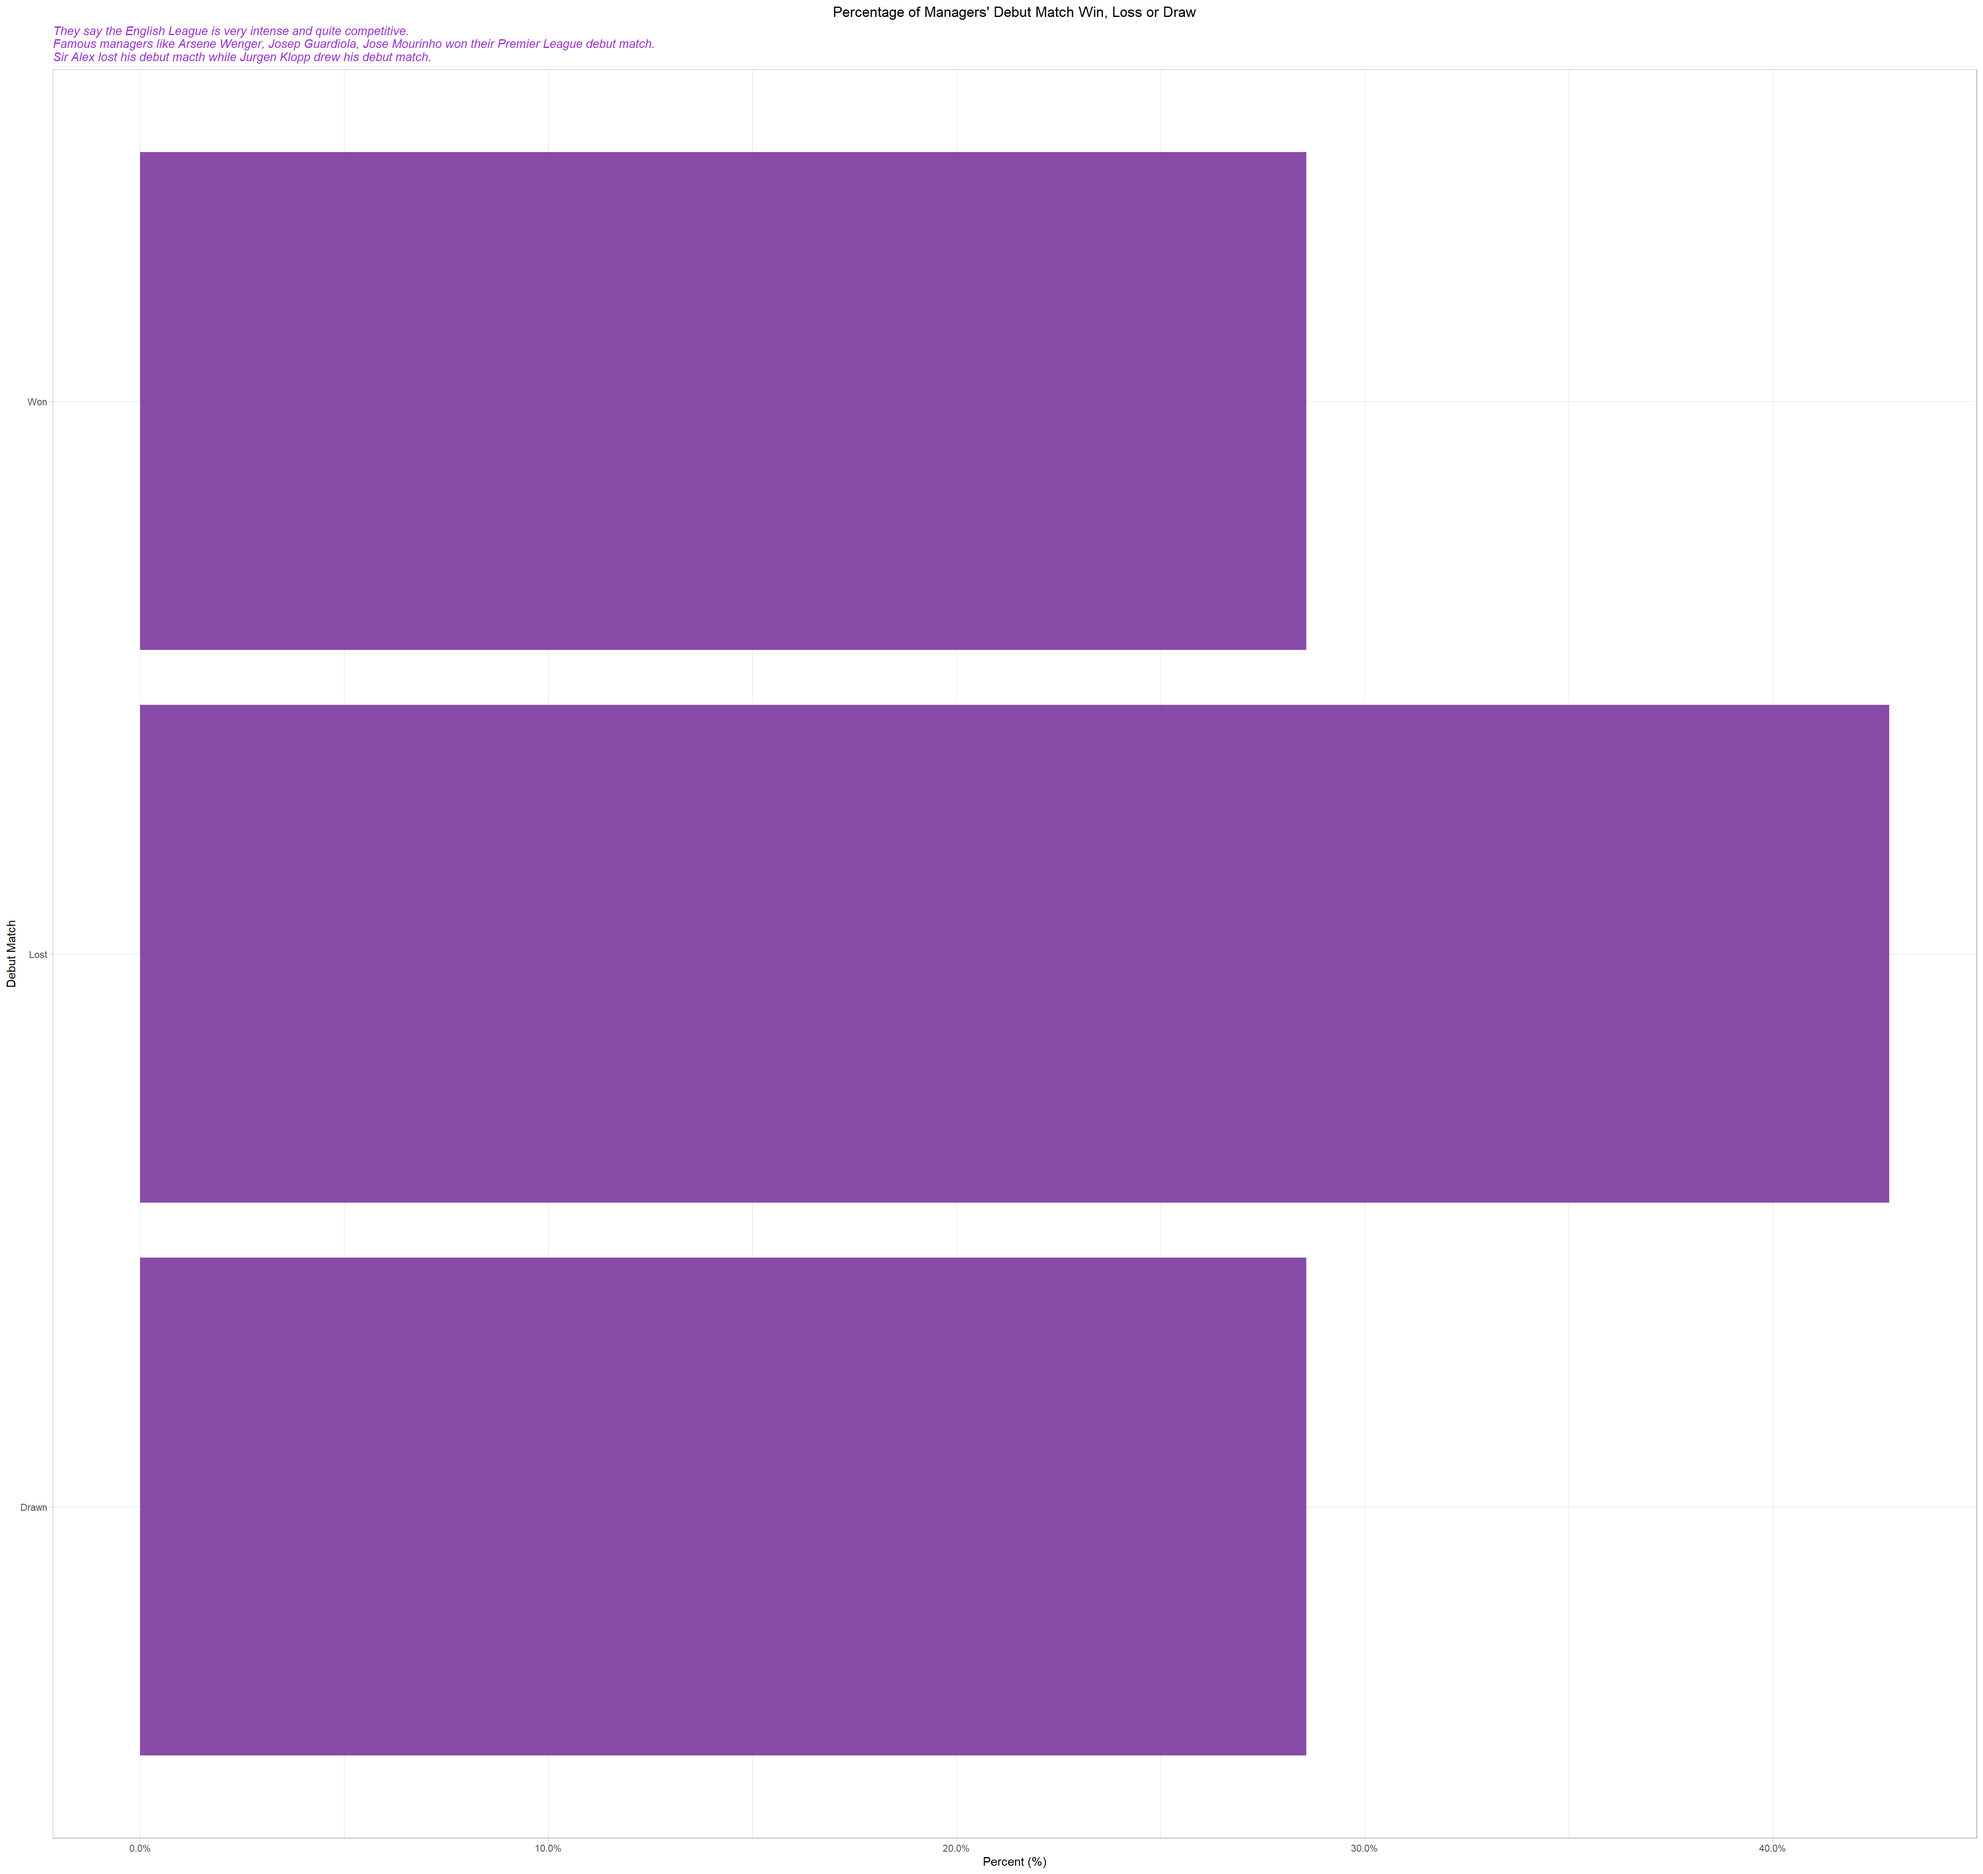
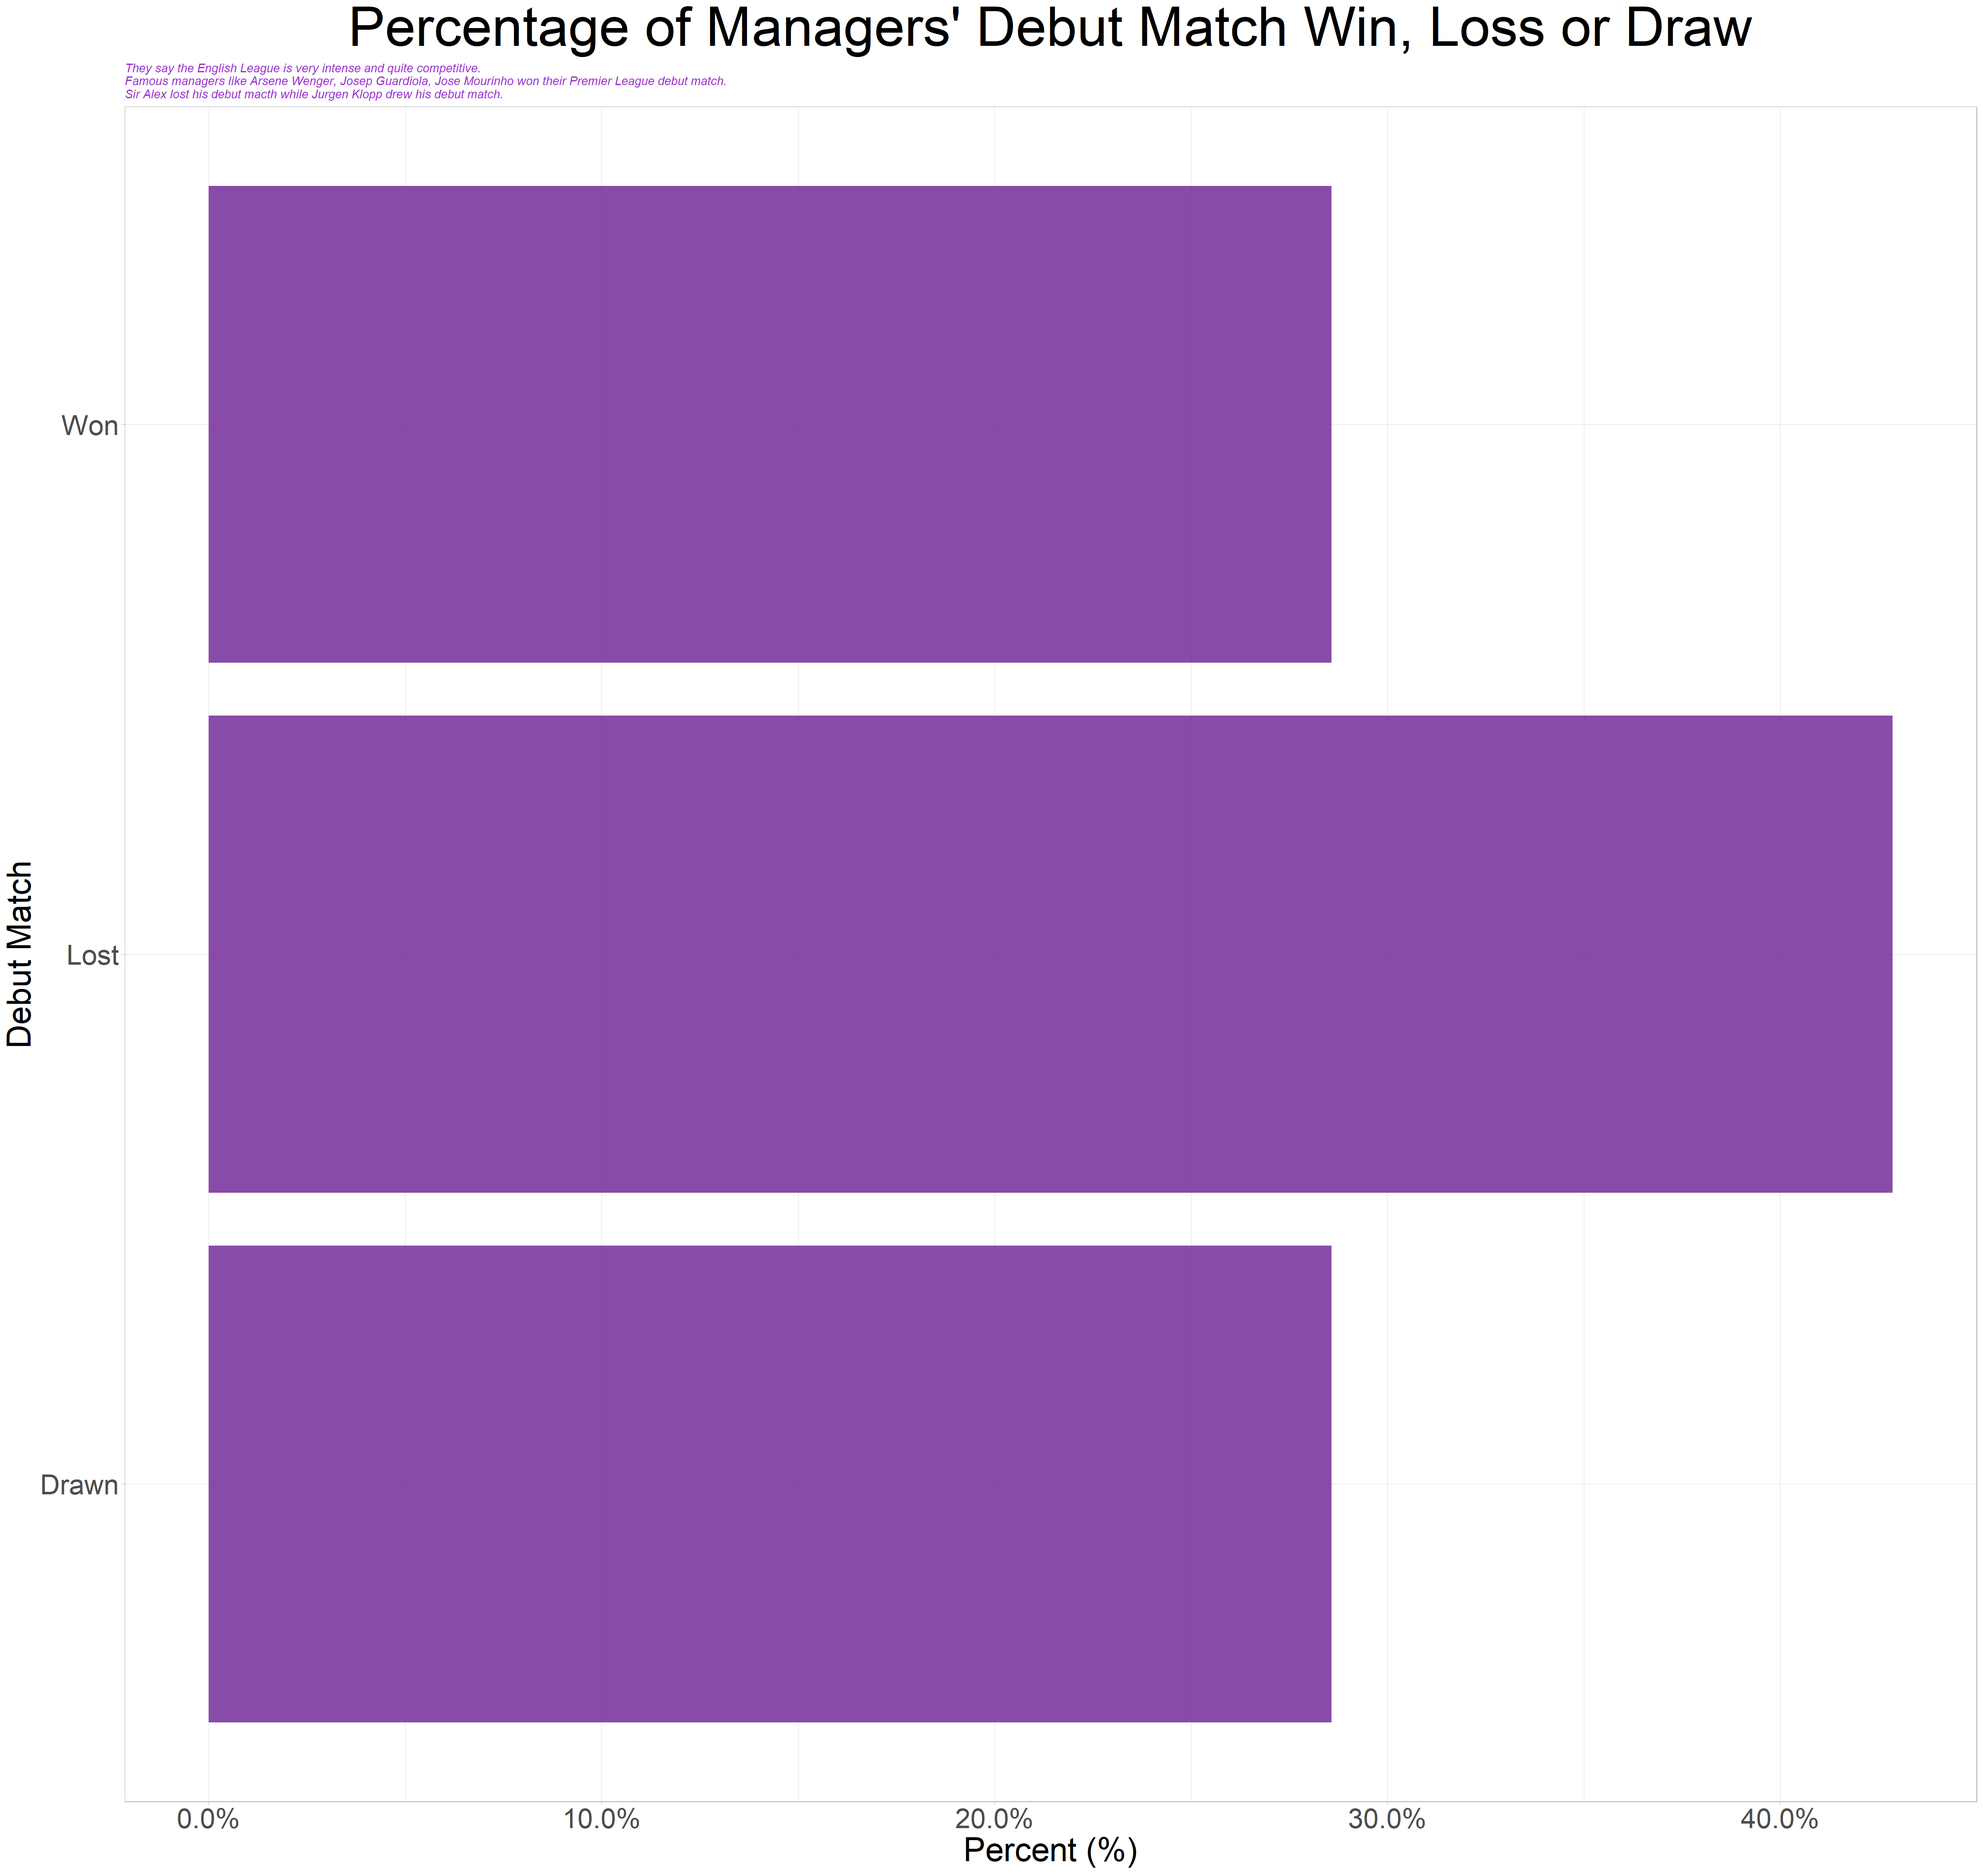
Font size changed

Changed region(s): [[0.0, 0.0, 0.9688, 0.9947], [0.875, 0.9636, 0.9062, 0.9947], [0.6875, 0.9636, 0.7188, 0.9947]]

diff --git a/content/project/English Premier League Managers/English-Premier-League-Managers-Pt-1.md b/content/project/English Premier League Managers/English-Premier-League-Managers-Pt-1.md
@@ -23,10 +23,6 @@ Let's start by loading in the data and packages into R. Data was gotten from the
 {{< panel name = "Packages" >}}
 
 
-```r
-library(tidyverse)
-```
-
 ```
 ## -- Attaching packages --------------------------------------- tidyverse 1.3.1 --
 ```
@@ -44,10 +40,6 @@ library(tidyverse)
 ## x dplyr::lag()    masks stats::lag()
 ```
 
-```r
-library(lubridate)
-```
-
 ```
 ## 
 ## Attaching package: 'lubridate'
@@ -57,11 +49,6 @@ library(lubridate)
 ## The following objects are masked from 'package:base':
 ## 
 ##     date, intersect, setdiff, union
-```
-
-```r
-library(ggthemes)
-library(janitor)
 ```
 
 ```
@@ -75,16 +62,8 @@ library(janitor)
 ##     chisq.test, fisher.test
 ```
 
-```r
-library(here)
-```
-
 ```
 ## here() starts at C:/Users/Egbogah-2/Documents/Rworks/rsites/Ifeoma-Egbogah
-```
-
-```r
-library(scales)
 ```
 
 ```
@@ -104,18 +83,8 @@ library(scales)
 ##     col_factor
 ```
 
-```r
-library(scico)
-theme_set(theme_light())
-
-epl <- clean_names(read_csv(here("content", "project", "English Premier League Managers", "EPL.csv")))
-```
-
 ```
 ## Rows: 219 Columns: 11
-```
-
-```
 ## -- Column specification --------------------------------------------------------
 ## Delimiter: ","
 ## chr  (4): Managers, Clubs, Nationality, Debut_Match
@@ -124,10 +93,6 @@ epl <- clean_names(read_csv(here("content", "project", "English Premier League M
 ## 
 ## i Use `spec()` to retrieve the full column specification for this data.
 ## i Specify the column types or set `show_col_types = FALSE` to quiet this message.
-```
-
-```r
-glimpse(epl)
 ```
 
 ```
@@ -157,16 +122,6 @@ Let's start by getting to know the data and see what information we can glean fr
 {{< panelset class = "greetings" >}}
 {{< panel name = "Code" >}}
 
-```r
-epl <- epl%>%
-  mutate(age = year(as.period(interval((date_of_birth), (pl_debut)))))
-
-epl%>%
-  summarise(mean_age = mean(age),
-            youngest = min(age),
-            oldest = max(age))
-```
-
 ```
 ## # A tibble: 1 x 3
 ##   mean_age youngest oldest
@@ -174,20 +129,8 @@ epl%>%
 ## 1     45.9       32     67
 ```
 
-```r
-age_table <- epl%>%
-  select(managers, age)%>%
-  filter(age %in% c(32, 67))
-```
-
 {{< /panel >}}
 {{< panel name = "Table" >}}
-
-
-```r
-knitr::kable(age_table, col.names = c("Managers", "Age"))
-```
-
 
 
 |Managers         | Age|
@@ -204,24 +147,11 @@ Lets get a better view of what the age distribution looks like by plotting a his
 {{< panelset class = "greetings" >}}
 {{< panel name = "Code" >}}
 
-```r
-age <- epl%>%
-ggplot(aes(age)) + 
-  geom_histogram(binwidth = 2, fill = scales::muted("darkorchid"), alpha = 0.8) +
-  labs(x = "Age",
-      y = "Count",
-      title = "Distribution of Managers' Age on Premier League Debut")
-```
 
 {{< /panel >}}
 {{< panel name = "Distribution" >}}
 
-
-```r
-age
-```
-
-<img src="/project/English Premier League Managers/English-Premier-League-Managers-Pt-1_files/figure-html/unnamed-chunk-4-1.png" width="672" />
+<img src="/project/English Premier League Managers/English-Premier-League-Managers-Pt-1_files/figure-html/unnamed-chunk-4-1.png" width="2400" />
 
 {{< /panel >}}
 {{< /panelset >}}
@@ -229,31 +159,13 @@ age
 
 ### Managers' Nationality
 
-What is the most common nationality of premier league managers? 
+One thing the English League is known for is the wide range in the nationality of not only the players but also the managers of the clubs. So, What is the most common nationality of premier league managers? Let's find out.
 
 {{< panelset class = "greetings" >}}
 {{< panel name = "Code" >}}
 
-```r
-nationality <- epl %>%
-  count(nationality, sort=TRUE) %>%
- # mutate(nationality = fct_reorder(nationality, n))%>%
-  ggplot(aes(nationality, n)) + 
-  geom_col(aes(fill = nationality)) + 
-  labs(x = "Country of Origin",
-       y = "Count", 
-       title = "Country of Origin of Premier League Managers") +
-  scale_fill_scico_d(palette = "bam") +
-  theme(legend.position = "none") + 
-  coord_flip()
-```
 {{< /panel >}}
 {{< panel name = "Nationality" >}}
-
-
-```r
-nationality
-```
 
 <img src="/project/English Premier League Managers/English-Premier-League-Managers-Pt-1_files/figure-html/unnamed-chunk-6-1.png" width="2400" />
 
@@ -265,28 +177,8 @@ Err... it looks a bit scattered let's arrange it in descending order based on th
 {{< panelset class = "greetings" >}}
 {{< panel name = "Code" >}}
 
-```r
-national <- epl%>%
-  count(nationality, sort=TRUE) %>%
-  mutate(percent = (n/sum(n))) %>%
-  mutate(country = fct_reorder(nationality, percent))%>%
-  ggplot(aes(country, percent)) + 
-  geom_col(aes(fill = country)) + 
-  labs(x = "Country of Origin",
-       y = "Percentage",
-       title = "Country of Origin for Premier League Managers") +
-  scale_fill_scico_d(palette = "bam") +
-  scale_y_continuous(labels = label_percent()) +
-  theme(legend.position = "none") +
-  coord_flip()
-```
 {{< /panel >}}
 {{< panel name = "Origin" >}}
-
-
-```r
-national
-```
 
 <img src="/project/English Premier League Managers/English-Premier-League-Managers-Pt-1_files/figure-html/unnamed-chunk-8-1.png" width="2400" />
 
@@ -304,54 +196,13 @@ A popular opinion among sports pundits is that English managers haven't been giv
 {{< panel name = "Code" >}}
 
 
-```r
-all_club <- epl%>%
-  count(nationality, clubs, sort = TRUE)%>%
-  group_by(clubs)%>%
-  mutate(total = sum(n))%>%
-  ggplot(aes(fct_reorder(clubs, total), n)) + 
-  geom_col(aes(fill= nationality)) +
-  labs(x = "Country of Origin",
-       y = "Counts",
-       fill = "Nationality",
-       title = "Nationality of the Premier League Managers for Each Clubs") +
-  scale_fill_scico_d(palette = "bam") +
-  scale_y_continuous(breaks = seq(2, 12, 2)) +
-  coord_flip() 
-
-
-top_club <- epl%>%
-  filter(clubs %in% c("Arsenal", "Chelsea", "Manchester United", "Manchester City", "Liverpool", "Tottenham Hotspur"))%>%
-  count(nationality, clubs, sort = TRUE)%>%
-  group_by(clubs)%>%
-  mutate(total = sum(n))%>%
-  ggplot(aes(fct_reorder(clubs, total), n)) + 
-  geom_col(aes(fill= nationality)) +
-  labs(x = "Country of Origin",
-       y = "Counts",
-       fill = "Nationality",
-       title = "Nationality of the Premier League Managers for the Top Flight Clubs") +
-  scale_fill_scico_d(palette = "bam") +
-  scale_y_continuous(breaks = seq(2, 12, 2)) +
-  coord_flip() 
-```
 
 {{< /panel >}}
 {{< panel name = "All Clubs" >}}
-
-```r
-all_club
-```
-
 <img src="/project/English Premier League Managers/English-Premier-League-Managers-Pt-1_files/figure-html/unnamed-chunk-10-1.png" width="2400" />
 
 {{< /panel >}}
 {{< panel name = "Top Six" >}}
-
-```r
-top_club
-```
-
 <img src="/project/English Premier League Managers/English-Premier-League-Managers-Pt-1_files/figure-html/unnamed-chunk-11-1.png" width="672" />
 
 {{< /panel >}}
@@ -367,28 +218,8 @@ David O'Leary and Martin O'Neill had no information on their English premier lea
 {{< panelset class = "greetings" >}}
 {{< panel name = "Code" >}}
 
-```r
-debut <- epl %>%
-  filter(debut_match != "na") %>%
-  count(debut_match, sort=TRUE) %>%
-  mutate(percent = (n/sum(n)))%>%
-  ggplot(aes(percent, debut_match)) +
-  geom_col(fill = scales::muted("darkorchid"), alpha = 0.8) +
-  scale_x_continuous(labels = scales::label_percent())+
-  labs(x = "Percent (%)",
-       y = "Debut Match",
-       title = "Percentage of Managers' Debut Match Win, Loss or Draw",
-       subtitle = "They say the English League is very intense and quite competitive.\nFamous managers like Arsene Wenger, Josep Guardiola, Jose Mourinho won their Premier League debut match.\nSir Alex lost his debut macth while Jurgen Klopp drew his debut match.") +
-  theme(plot.title = element_text(hjust = 0.5),
-        plot.subtitle = element_text(face = "italic", colour = "darkorchid"))
-```
 {{< /panel >}}
 {{< panel name = "Debut" >}}
-
-
-```r
-debut
-```
 
 <img src="/project/English Premier League Managers/English-Premier-League-Managers-Pt-1_files/figure-html/unnamed-chunk-13-1.png" width="2400" />
 
@@ -400,29 +231,8 @@ Out of the 112 English managers in the league 50 lost their debut matches. So fa
 {{< panelset class = "greetings" >}}
 {{< panel name = "Code" >}}
 
-```r
-debut_nat <- epl %>%
-  filter(debut_match != "na") %>%
-  count(debut_match, nationality, sort=TRUE)%>%
-  group_by(nationality)%>%
-  mutate(total = sum(n))%>%
-  ggplot(aes(fct_reorder(nationality, total), n)) + 
-  geom_col(aes(fill = debut_match)) +
-  coord_flip() +
-  scale_fill_scico_d(palette = "bam", direction = -1) +
-  scale_y_continuous(breaks = seq(0, 130, 20)) +
-  labs(x = "Nationality of Managers",
-       y = "No of Matches",
-       title = "Number of Matches Won, Drawn, or Lost by Managers on Debut Day",
-       fill = "Match Result")
-```
 {{< /panel >}}
 {{< panel name = "Match Result" >}}
-
-
-```r
-debut_nat
-```
 
 <img src="/project/English Premier League Managers/English-Premier-League-Managers-Pt-1_files/figure-html/unnamed-chunk-15-1.png" width="2400" />
 {{< /panel >}}
